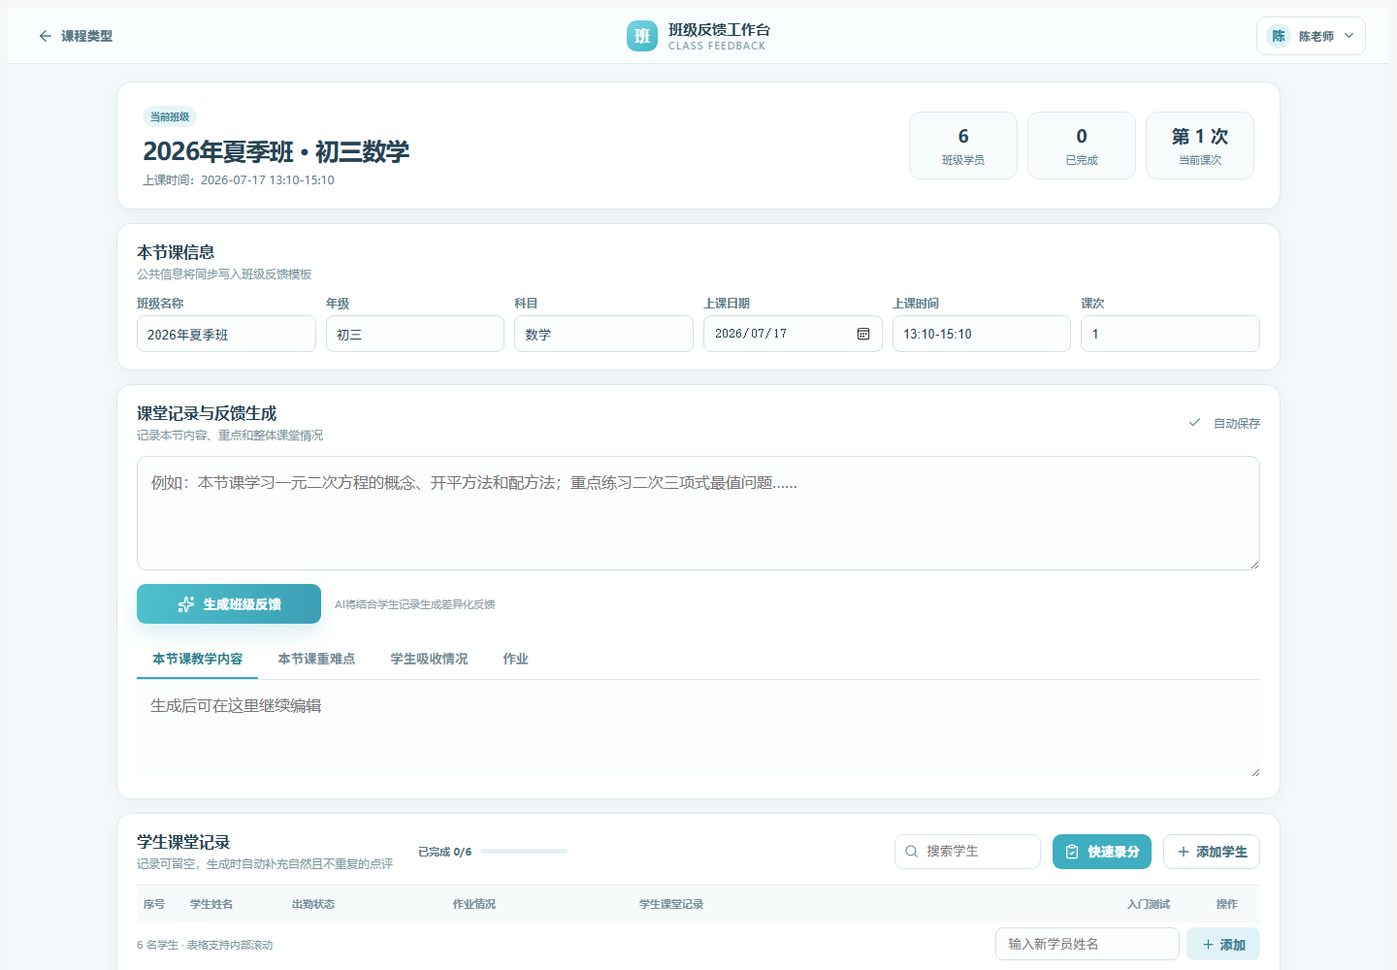
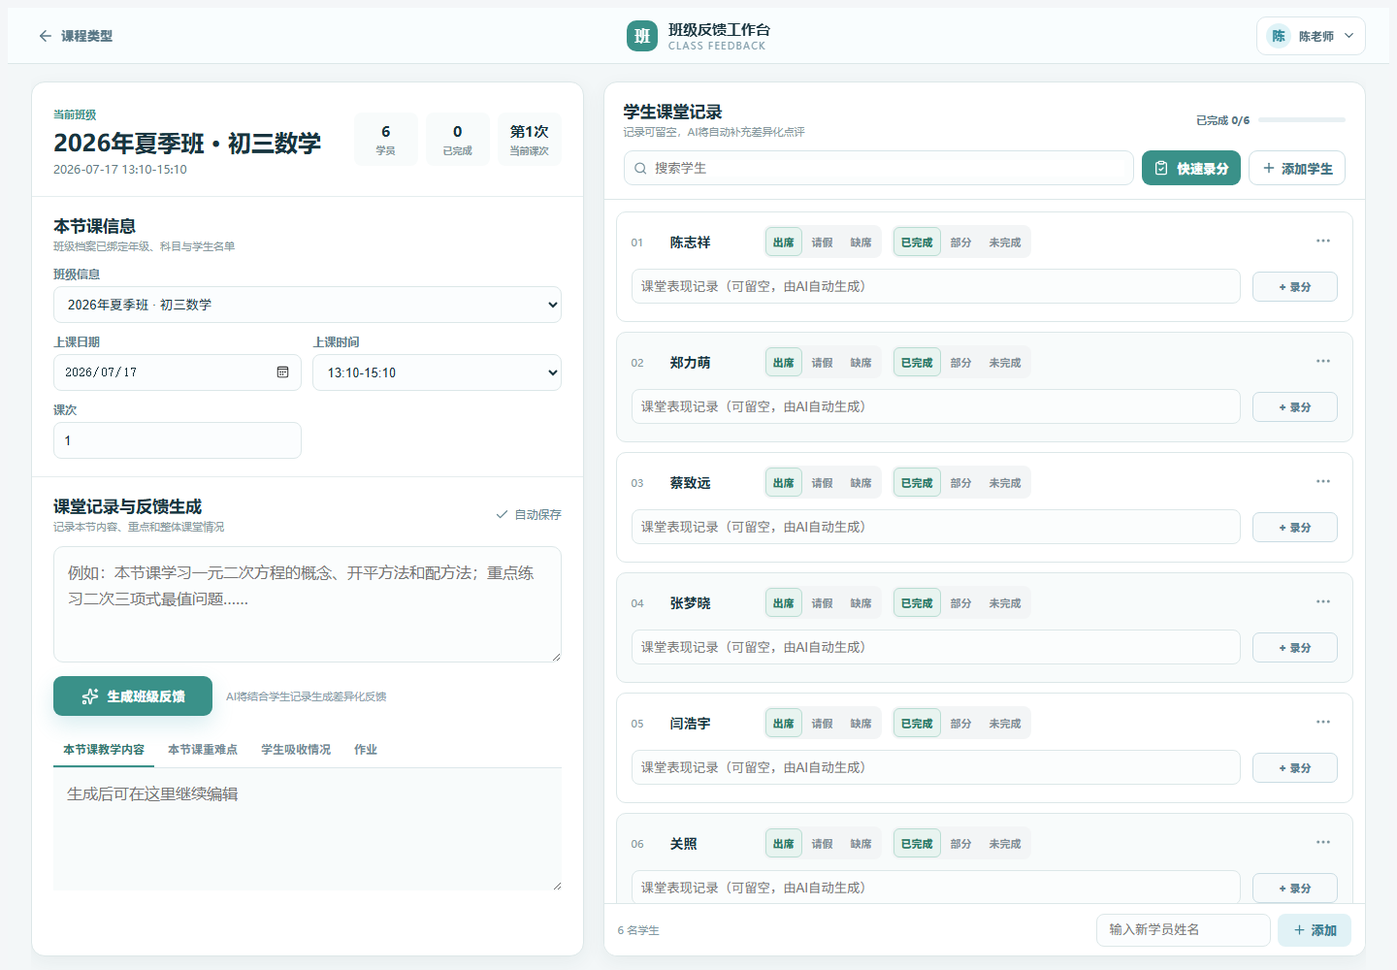
refactor: use split classroom workspace

diff --git a/src/GroupClassWorkspace.jsx b/src/GroupClassWorkspace.jsx
@@ -35,6 +35,7 @@ export default function GroupClassWorkspace({ onBack }) {
   const [activeResult, setActiveResult] = useState("teachingContent");
   const [search, setSearch] = useState("");
   const [menuStudent, setMenuStudent] = useState("");
+  const [editingStudent, setEditingStudent] = useState("");
   const [results, setResults] = useState({ teachingContent: "", difficultPoints: "", absorption: "", homework: "" });
 
   const attendedStudents = useMemo(() => students.filter((student) => student.attendance === "出席"), [students]);
@@ -144,56 +145,20 @@ export default function GroupClassWorkspace({ onBack }) {
       </header>
 
       <main className="groupMain">
-        <section className="classHero">
-          <div><span className="bluePill">当前班级</span><h1>{classInfo.title} · {classInfo.grade}{classInfo.subject}</h1><p>上课时间：{classInfo.date} <span>{classInfo.time}</span></p></div>
-          <div className="heroStats"><div><b>{students.length}</b><span>班级学员</span></div><div><b>{scoredCount}</b><span>已完成</span></div><div><b>第 {classInfo.lesson} 次</b><span>当前课次</span></div></div>
+        <section className="courseWorkspace">
+          <header className="courseOverview"><div><span>当前班级</span><h1>{classInfo.title} · {classInfo.grade}{classInfo.subject}</h1><p>{classInfo.date} <span>{classInfo.time}</span></p></div><div className="overviewStats"><b>{students.length}<small>学员</small></b><b>{scoredCount}<small>已完成</small></b><b>第{classInfo.lesson}次<small>当前课次</small></b></div></header>
+          <div className="workspaceSection"><div className="workspaceTitle"><div><h2>本节课信息</h2><p>班级档案已绑定年级、科目与学生名单</p></div></div><div className="leftInfoGrid"><label className="groupField classPicker"><span>班级信息</span><select value={classInfo.classId} onChange={(event) => selectClass(event.target.value)}>{classProfiles.map((profile) => <option key={profile.id} value={profile.id}>{profile.title} · {profile.grade}{profile.subject}</option>)}</select></label><Field label="上课日期" type="date" value={classInfo.date} onChange={(value) => updateClassInfo("date", value)} /><ClassTimeField value={classInfo.time} mode={classInfo.timeMode} onChange={(time, timeMode) => setClassInfo((previous) => ({ ...previous, time, timeMode }))} /><Field label="课次" type="number" value={classInfo.lesson} onChange={(value) => updateClassInfo("lesson", value)} /></div></div>
+          <div className="workspaceSection aiSection"><div className="workspaceTitle"><div><h2>课堂记录与反馈生成</h2><p>记录本节内容、重点和整体课堂情况</p></div><div className="saveState"><Check size={15} />自动保存</div></div><textarea className="classNotes" value={rawText} onChange={(event) => setRawText(event.target.value)} placeholder="例如：本节课学习一元二次方程的概念、开平方法和配方法；重点练习二次三项式最值问题……" /><div className="generateRow"><button className="generateGroup" type="button" onClick={generateDraft}><Sparkles size={18} />生成班级反馈</button><span>AI将结合学生记录生成差异化反馈</span></div><div className="resultTabs">{resultTabs.map(([key, label]) => <button className={activeResult === key ? "active" : ""} type="button" key={key} onClick={() => setActiveResult(key)}>{label}</button>)}</div><textarea className="tabResultEditor" value={results[activeResult]} onChange={(event) => setResults((previous) => ({ ...previous, [activeResult]: event.target.value }))} placeholder="生成后可在这里继续编辑" /></div>
         </section>
 
-        <section className="groupCard classSettings">
-          <div className="sectionHeading compactHeading"><div><div><h2>本节课信息</h2><p>公共信息将同步写入班级反馈模板</p></div></div></div>
-          <div className="classInfoGrid">
-            <label className="groupField"><span>班级</span><select value={classInfo.classId} onChange={(event) => selectClass(event.target.value)}>{classProfiles.map((profile) => <option key={profile.id} value={profile.id}>{profile.title} · {profile.grade}{profile.subject}</option>)}</select></label>
-            <Field label="年级" readOnly value={classInfo.grade} onChange={() => {}} />
-            <Field label="科目" readOnly value={classInfo.subject} onChange={() => {}} />
-            <Field label="上课日期" type="date" value={classInfo.date} onChange={(value) => updateClassInfo("date", value)} />
-            <ClassTimeField value={classInfo.time} mode={classInfo.timeMode} onChange={(time, timeMode) => setClassInfo((previous) => ({ ...previous, time, timeMode }))} />
-            <Field label="课次" type="number" value={classInfo.lesson} onChange={(value) => updateClassInfo("lesson", value)} />
-          </div>
-        </section>
-
-        <section className="groupCard">
-          <div className="sectionHeading compactHeading"><div><div><h2>课堂记录与反馈生成</h2><p>记录本节内容、重点和整体课堂情况</p></div></div><div className="saveState"><Check size={15} />自动保存</div></div>
-          <textarea className="classNotes" value={rawText} onChange={(event) => setRawText(event.target.value)} placeholder="例如：本节课学习一元二次方程的概念、开平方法和配方法；重点练习二次三项式最值问题……" />
-          <div className="generateRow"><button className="generateGroup" type="button" onClick={generateDraft}><Sparkles size={18} />生成班级反馈</button><span>AI将结合学生记录生成差异化反馈</span></div>
-          <div className="resultTabs">{resultTabs.map(([key, label]) => <button className={activeResult === key ? "active" : ""} type="button" key={key} onClick={() => setActiveResult(key)}>{label}</button>)}</div>
-          <textarea className="tabResultEditor" value={results[activeResult]} onChange={(event) => setResults((previous) => ({ ...previous, [activeResult]: event.target.value }))} placeholder="生成后可在这里继续编辑" />
-        </section>
-
-        <section className="groupCard studentManagement">
-          <div className="sectionHeading">
-            <div><div><h2>学生课堂记录</h2><p>记录可留空，生成时自动补充自然且不重复的点评</p></div><div className="completion"><b>已完成 {scoredCount}/{students.length}</b><i><span style={{ width: `${students.length ? (scoredCount / students.length) * 100 : 0}%` }} /></i></div></div>
-            <div className="studentActions"><label><Search size={15} /><input value={search} onChange={(event) => setSearch(event.target.value)} placeholder="搜索学生" /></label><button className="scoreLaunch" type="button" disabled={!students.length} onClick={() => openRecorder()}><ClipboardCheck size={16} />快速录分</button><button className="secondaryAdd" type="button" onClick={() => document.querySelector('.addStudentRow input')?.focus()}><Plus size={16} />添加学生</button></div>
-          </div>
-
-          <div className="studentTableWrap">
-            <table className="studentTable">
-              <thead><tr><th>序号</th><th>学生姓名</th><th>出勤状态</th><th>作业情况</th><th>学生课堂记录</th><th>入门测试</th><th>操作</th></tr></thead>
-              <tbody>{filteredStudents.map((student) => {
-                const index = students.findIndex((item) => item.id === student.id);
-                return (
-                <tr key={student.id}>
-                  <td className="rowNumber">{String(index + 1).padStart(2, "0")}</td>
-                  <td><div className="studentName"><input value={student.name} onChange={(event) => updateStudent(student.id, { name: event.target.value })} /></div></td>
-                  <td><MiniSegment kind="attendance" value={student.attendance} options={["出席", "请假", "缺席"]} onChange={(attendance) => updateStudent(student.id, { attendance })} /></td>
-                  <td><MiniSegment kind="homework" value={student.homeworkStatus} options={["已完成", "部分", "未完成"]} onChange={(homeworkStatus) => updateStudent(student.id, { homeworkStatus })} /></td>
-                  <td><input className="quickInput" value={student.quickNote} onChange={(event) => updateStudent(student.id, { quickNote: event.target.value })} placeholder="可留空，由AI自动生成" /></td>
-                  <td><button className={`scoreCell ${student.score !== "" ? "filled" : ""}`} type="button" onClick={() => openRecorder(index)}>{student.score === "" ? "+ 录分" : student.score === "缺考" ? "缺考" : `${student.score} / 30`}</button></td>
-                  <td className="moreCell"><button className="moreButton" type="button" onClick={() => setMenuStudent(menuStudent === student.id ? "" : student.id)}><MoreHorizontal size={18} /></button>{menuStudent === student.id && <div className="rowMenu"><button type="button" onClick={() => { removeStudent(student.id); setMenuStudent(""); }}>删除学生</button></div>}</td>
-                </tr>
-              )})}</tbody>
-            </table>
-          </div>
-          <div className="addStudentRow"><span>{students.length} 名学生 · 表格支持内部滚动</span><div><input value={newStudent} onChange={(event) => setNewStudent(event.target.value)} onKeyDown={(event) => event.key === "Enter" && addStudent()} placeholder="输入新学员姓名" /><button type="button" onClick={addStudent}><Plus size={15} />添加</button></div></div>
+        <section className="studentWorkspace">
+          <header className="studentWorkspaceHeader"><div className="studentHeading"><div><h2>学生课堂记录</h2><p>记录可留空，AI将自动补充差异化点评</p></div><div className="completion"><b>已完成 {scoredCount}/{students.length}</b><i><span style={{ width: `${students.length ? (scoredCount / students.length) * 100 : 0}%` }} /></i></div></div><div className="studentActions"><label><Search size={15} /><input value={search} onChange={(event) => setSearch(event.target.value)} placeholder="搜索学生" /></label><button className="scoreLaunch" type="button" disabled={!students.length} onClick={() => openRecorder()}><ClipboardCheck size={16} />快速录分</button><button className="secondaryAdd" type="button" onClick={() => document.querySelector('.addStudentRow input')?.focus()}><Plus size={16} />添加学生</button></div></header>
+          <div className="studentCardList">{filteredStudents.map((student) => { const index = students.findIndex((item) => item.id === student.id); return <article className={`studentRecordCard ${editingStudent === student.id ? "editing" : ""}`} key={student.id}>
+            {student.score !== "" && <span className="studentDone"><Check size={12} /></span>}
+            <div className="studentCardTop"><span className="studentIndex">{String(index + 1).padStart(2, "0")}</span><input className="studentFullName" value={student.name} onFocus={() => setEditingStudent(student.id)} onBlur={() => setEditingStudent("")} onChange={(event) => updateStudent(student.id, { name: event.target.value })} /><MiniSegment kind="attendance" value={student.attendance} options={["出席", "请假", "缺席"]} onChange={(attendance) => updateStudent(student.id, { attendance })} /><MiniSegment kind="homework" value={student.homeworkStatus} options={["已完成", "部分", "未完成"]} onChange={(homeworkStatus) => updateStudent(student.id, { homeworkStatus })} /><div className="moreCell"><button className="moreButton" type="button" onClick={() => setMenuStudent(menuStudent === student.id ? "" : student.id)}><MoreHorizontal size={18} /></button>{menuStudent === student.id && <div className="rowMenu"><button type="button" onClick={() => { removeStudent(student.id); setMenuStudent(""); }}>删除学生</button></div>}</div></div>
+            <div className="studentCardBottom"><input className="quickInput" value={student.quickNote} onFocus={() => setEditingStudent(student.id)} onBlur={() => setEditingStudent("")} onChange={(event) => updateStudent(student.id, { quickNote: event.target.value })} placeholder="课堂表现记录（可留空，由AI自动生成）" /><button className={`scoreCell ${student.score !== "" ? "filled" : ""}`} type="button" onClick={() => openRecorder(index)}>{student.score === "" ? "+ 录分" : student.score === "缺考" ? "缺考" : `${student.score} / 30`}</button></div>
+          </article> })}</div>
+          <footer className="addStudentRow"><span>{students.length} 名学生</span><div><input value={newStudent} onChange={(event) => setNewStudent(event.target.value)} onKeyDown={(event) => event.key === "Enter" && addStudent()} placeholder="输入新学员姓名" /><button type="button" onClick={addStudent}><Plus size={15} />添加</button></div></footer>
         </section>
       </main>
 
@@ -237,5 +202,8 @@ const groupCss = `
   /* Dense desktop workspace v2 */
   .groupShell{background:#f4f8fa}.groupTopbar{height:58px;grid-template-columns:1fr auto 1fr;padding:0 24px}.groupBrand{justify-self:center}.groupBrand>span{width:32px;height:32px;border-radius:10px}.teacherSwitch{justify-self:end;display:flex;align-items:center;gap:8px;border:1px solid #dbe7eb;border-radius:10px;background:#fff;color:#486674;padding:6px 9px;cursor:pointer}.teacherSwitch>span{width:26px;height:26px;display:grid;place-items:center;border-radius:50%;background:#dff3f7;color:#2f8799;font-weight:900}.teacherSwitch b{font-size:12px}.groupMain{width:min(1200px,calc(100% - 32px));padding:18px 0 42px}.classHero{min-height:118px;padding:22px 26px;margin-bottom:14px;border:1px solid #dce9ed;border-radius:15px;background:#fff;box-shadow:0 6px 20px rgba(41,76,92,.05)}.bluePill{padding:4px 8px;background:#e6f5f8;font-size:10px}.classHero h1{margin:8px 0 5px;font-size:25px}.classHero p{font-size:12px}.heroStats div{min-width:112px;padding:12px 16px;border-color:#deeaee;border-radius:12px;background:#f8fbfc}.heroStats b{font-size:18px}.groupCard{margin-bottom:14px;padding:18px 20px;border-radius:15px;box-shadow:0 4px 16px rgba(42,77,93,.045)}.sectionHeading{margin-bottom:14px}.compactHeading h2,.sectionHeading h2{font-size:16px}.classInfoGrid{gap:10px}.groupField{gap:5px}.groupField input{height:38px;border-radius:8px;padding:8px 10px}.classNotes{min-height:118px;border-radius:10px;padding:12px 14px}.generateRow{display:flex;align-items:center;gap:14px;margin-top:10px}.generateRow .generateGroup{width:auto;min-width:190px;margin:0;padding:11px 18px;border-radius:9px}.generateRow>span{color:#8aa0aa;font-size:11px}.resultTabs{display:flex;gap:4px;margin-top:16px;border-bottom:1px solid #dce7eb}.resultTabs button{border:0;border-bottom:2px solid transparent;background:transparent;color:#718b96;padding:10px 16px;font-weight:700;cursor:pointer}.resultTabs button.active{border-bottom-color:#35a9ba;color:#267f90}.tabResultEditor{width:100%;min-height:100px;border:0;background:#fbfdfe;color:var(--ink);padding:13px 14px;resize:vertical;font:inherit;line-height:1.6;outline:none}.studentManagement{padding-bottom:0}.studentActions{display:flex;align-items:center;gap:8px}.studentActions label{height:36px;display:flex;align-items:center;gap:6px;border:1px solid #d6e4e8;border-radius:9px;padding:0 9px;color:#76909b}.studentActions label input{width:110px;border:0;outline:none;color:var(--ink)}.studentActions .scoreLaunch,.secondaryAdd{height:36px;border-radius:9px;padding:0 12px}.secondaryAdd{display:flex;align-items:center;gap:5px;border:1px solid #cddfe4;background:#fff;color:#467686;font-weight:800;cursor:pointer}.completion{display:flex!important;align-items:center!important;gap:9px!important;margin-left:14px}.completion b{color:#587886;font-size:11px}.completion i{width:90px;height:5px;border-radius:99px;background:#e8f0f3;overflow:hidden}.completion i span{display:block;height:100%;background:#42b6c5}.studentTableWrap{height:388px;overflow:auto;border-top:1px solid #e3ecef;border-bottom:1px solid #e3ecef;scrollbar-width:thin;scrollbar-color:#bfd2d9 transparent}.studentTableWrap::-webkit-scrollbar{width:6px;height:6px}.studentTableWrap::-webkit-scrollbar-thumb{border-radius:99px;background:#bfd2d9}.studentTable thead{position:sticky;top:0;z-index:3;background:#f7fafb}.studentTable th{height:38px;padding:8px 7px}.studentTable tbody tr{height:55px;transition:background .15s}.studentTable tbody tr:hover{background:#f2fafc}.studentTable td{padding:7px}.rowNumber{width:48px;color:#91a5ad;font-size:11px}.studentName>span{width:28px;height:28px;border-radius:50%}.studentName input{width:76px}.miniSegment{padding:2px;border:1px solid #e0eaed;border-radius:8px;background:#fff}.miniSegment button{border-radius:6px;padding:6px 7px}.miniSegment button.active{background:#e4f4f7;box-shadow:none}.quickInput{height:34px;border-radius:8px;padding:7px 9px}.scoreCell{border-style:solid;border-radius:8px;background:#fff;padding:7px 9px}.scoreCell.filled{background:#e6f6f8}.moreCell{position:relative}.moreButton{border:0;background:transparent;color:#7e969f;cursor:pointer}.rowMenu{position:absolute;right:24px;top:40px;z-index:8;padding:5px;border:1px solid #dce7ea;border-radius:8px;background:#fff;box-shadow:0 8px 22px rgba(30,60,75,.14)}.rowMenu button{border:0;background:transparent;color:#b04c58;padding:7px 12px;white-space:nowrap;cursor:pointer}.addStudentRow{position:sticky;bottom:0;min-height:54px;display:flex;align-items:center;justify-content:space-between;margin:0;background:#fff}.addStudentRow>span{color:#849aa4;font-size:11px}.addStudentRow>div{display:flex;gap:7px}.addStudentRow input{height:34px;max-width:190px;border-radius:8px}.addStudentRow button{height:34px;display:flex;align-items:center;gap:4px;border-radius:8px}.scoreRecorder{width:min(580px,100%);border-radius:16px}.recorderHeader{padding:22px 26px 17px;background:#f3fafc}.recorderHeader h2{font-size:25px}.recorderModes{margin-top:15px}.scoreButtons{gap:8px}.scoreButtons button{border-radius:10px}.scoreButtons button.selected{border-color:#2c9fb1;background:#35aabc;color:#fff}.absentRow{display:flex;align-items:center;justify-content:center;gap:14px;margin:4px 28px 14px}.absentRow>button{border:1px solid #c8d9de;border-radius:8px;background:#fff;color:#6d8792;padding:7px 18px;font-weight:800;cursor:pointer}.autoHint{margin:0}.recorderFooter{padding:13px 20px}
   .groupField select{width:100%;height:38px;border:1px solid var(--line);border-radius:8px;background:#fbfdfe;color:var(--ink);padding:8px 10px;outline:none}.groupField input[readonly]{background:#f5f8f9;color:#667f8a;cursor:default}.classTimeField{position:relative}.classTimeField input{position:absolute;top:63px;z-index:6;background:#fff;box-shadow:0 8px 20px rgba(35,67,82,.14)}.studentTable th:nth-child(1){width:48px}.studentTable th:nth-child(2){width:105px}.studentTable th:nth-child(3){width:166px}.studentTable th:nth-child(4){width:192px}.studentTable th:nth-child(6){width:82px}.studentTable th:nth-child(7){width:52px}.studentName{display:block}.studentName input{width:82px}.miniSegment{display:inline-flex;width:max-content;padding:2px;gap:2px;border:0;background:#f3f5f6}.miniSegment button{font-weight:700}.miniSegment button:not(.active){color:#7c8d95;background:transparent}.miniSegment.attendance .state-0.active{color:#246c8e;background:#DCEFF8}.miniSegment.homework .state-0.active{color:#247080;background:#DDF2F4}.miniSegment .state-1.active{color:#8b5c10;background:#FFF3D6}.miniSegment .state-2.active{color:#963b45;background:#FDEBEC}.scoreCell{min-width:64px;height:31px;border-color:#c9dce3!important;border-radius:7px!important;background:#f7fafb!important;color:#568090!important;padding:4px 8px!important;font-size:11px;white-space:nowrap}.scoreCell:hover{border-color:#7fb9ca!important;background:#edf7fa!important;color:#2c8298!important}.scoreCell.filled{border-color:#9ccbd6!important;background:#e9f6f8!important;color:#277d90!important}.addStudentRow button{white-space:nowrap;flex-shrink:0}.typeScore{min-height:190px}.typeScore p{margin-top:18px}.typeScore em{color:#b3434c;font-size:12px;font-style:normal}.scoreComplete{display:grid;justify-items:center;padding:46px 30px}.scoreComplete>span{width:58px;height:58px;display:grid;place-items:center;border-radius:50%;background:#e2f6f0;color:#27805f}.scoreComplete h2{margin:17px 0 5px}.scoreComplete p{margin:0;color:#7a929d}.scoreComplete button{margin-top:24px;border:0;border-radius:9px;background:#35aabc;color:#fff;padding:11px 18px;font-weight:800;cursor:pointer}.savedToast{position:absolute;left:50%;bottom:24px;display:flex;align-items:center;gap:7px;transform:translateX(-50%);border-radius:9px;background:#244f5e;color:#fff;padding:9px 13px;font-size:12px;box-shadow:0 8px 24px rgba(20,50,65,.22);pointer-events:none}.scoreButtons button{transition:none}
-  @media(max-width:900px){.studentActions{width:100%;flex-wrap:wrap}.studentTableWrap{height:380px}.groupMain{width:min(100% - 20px,1200px)}}
+  /* Two-column classroom workspace */
+  .groupShell{--ink:#18343E;--muted:#647C86;--line:#DCE7E8;background:#F3F7F8}.groupTopbar{border-color:#DCE7E8}.groupBrand>span,.scoreLaunch,.generateGroup{background:#3A9189!important}.groupMain{width:min(1680px,calc(100% - 48px));height:calc(100vh - 58px);display:grid;grid-template-columns:minmax(0,42fr) minmax(0,58fr);gap:20px;padding:18px 0 22px;overflow:hidden}.courseWorkspace,.studentWorkspace{height:100%;min-height:0;border:1px solid #DCE7E8;border-radius:14px;background:#fff;box-shadow:0 6px 20px rgba(36,67,75,.06)}.courseWorkspace{overflow-y:auto;scrollbar-width:thin;scrollbar-color:#C5D5D8 transparent}.courseOverview{display:flex;align-items:center;justify-content:space-between;gap:16px;padding:20px 22px;border-bottom:1px solid #E5EDEE}.courseOverview>div>span{color:#3A9189;font-size:11px;font-weight:800}.courseOverview h1{margin:5px 0 4px;color:#18343E;font-size:24px}.courseOverview p{margin:0;color:#647C86;font-size:12px}.overviewStats{display:flex;gap:8px}.overviewStats b{min-width:66px;padding:9px 8px;border-radius:8px;background:#F8FBFB;color:#18343E;text-align:center;font-size:15px}.overviewStats small{display:block;margin-top:3px;color:#8799A0;font-size:10px;font-weight:600}.workspaceSection{padding:18px 22px;border-bottom:1px solid #E5EDEE}.workspaceSection:last-child{border-bottom:0}.workspaceTitle{display:flex;align-items:center;justify-content:space-between;margin-bottom:13px}.workspaceTitle h2,.studentHeading h2{margin:0;font-size:17px}.workspaceTitle p,.studentHeading p{margin:3px 0 0;color:#8799A0;font-size:11px}.leftInfoGrid{display:grid;grid-template-columns:repeat(2,minmax(0,1fr));gap:11px}.classPicker{grid-column:1/-1}.classNotes{min-height:120px;background:#FBFDFD}.generateRow .generateGroup{min-width:164px}.resultTabs{overflow-x:auto}.resultTabs button{flex:0 0 auto;padding:9px 10px;font-size:12px}.resultTabs button.active{border-color:#3A9189;color:#2E766F}.tabResultEditor{min-height:126px;background:#F8FBFB}.studentWorkspace{display:flex;flex-direction:column;overflow:hidden}.studentWorkspaceHeader{flex:0 0 auto;padding:18px 20px 14px;border-bottom:1px solid #DCE7E8}.studentHeading{display:flex;align-items:center;justify-content:space-between;gap:12px}.studentActions{margin-top:12px}.studentActions label{flex:1;background:#FBFDFD}.studentActions label input{width:100%}.studentActions .scoreLaunch,.secondaryAdd{white-space:nowrap}.completion{margin-left:auto!important}.completion i span{background:#3A9189}.studentCardList{flex:1;min-height:0;overflow-y:auto;padding:12px;scrollbar-width:thin;scrollbar-color:#C5D5D8 transparent}.studentCardList::-webkit-scrollbar,.courseWorkspace::-webkit-scrollbar{width:6px}.studentCardList::-webkit-scrollbar-thumb,.courseWorkspace::-webkit-scrollbar-thumb{border-radius:99px;background:#C5D5D8}.studentRecordCard{position:relative;min-height:114px;margin-bottom:10px;padding:13px 15px;border:1px solid #DCE7E8;border-radius:10px;background:#fff;transition:150ms ease}.studentRecordCard:nth-child(even){background:#F8FBFB}.studentRecordCard:hover{background:#F1F8F7}.studentRecordCard.editing{border-color:#9BCBC5;background:#EDF7F5;box-shadow:inset 3px 0 #3A9189}.studentCardTop{display:flex;align-items:center;gap:10px;min-height:30px}.studentIndex{width:28px;color:#8799A0;font-size:11px}.studentFullName{width:88px;border:0;background:transparent;color:#18343E;font-size:14px;font-weight:700;outline:none}.studentCardTop .moreCell{margin-left:auto}.studentCardBottom{display:grid;grid-template-columns:minmax(0,1fr) 88px;align-items:center;gap:12px;margin-top:11px}.studentCardBottom .quickInput{height:36px;background:#FBFDFD}.studentCardBottom .scoreCell{width:88px}.studentDone{position:absolute;right:10px;top:7px;color:#3A9189}.studentWorkspace>.addStudentRow{flex:0 0 54px;padding:0 14px;border-top:1px solid #DCE7E8}.studentWorkspace>.addStudentRow input{width:180px}.miniSegment.attendance .state-0.active,.miniSegment.homework .state-0.active{border:1px solid #B9DDD3;color:#287A68;background:#E8F4F0}.miniSegment .state-1.active{border:1px solid #DFCFB4;color:#8B6B3F;background:#F6F0E6}.miniSegment .state-2.active{border:1px solid #E7C2C7;color:#A85861;background:#F8EBED}.miniSegment button:not(.active){border:1px solid transparent;color:#7C8D95;background:transparent}.groupField input:focus,.groupField select:focus,.quickInput:focus,.classNotes:focus,.tabResultEditor:focus{border-color:#86BEB8;box-shadow:0 0 0 2px rgba(134,190,184,.16)}
+  @media(max-width:1100px){.groupMain{height:auto;grid-template-columns:1fr;overflow:visible}.courseWorkspace{max-height:none}.studentWorkspace{height:720px}.studentCardTop{flex-wrap:wrap}}
+  @media(max-width:900px){.studentActions{width:100%;flex-wrap:wrap}.groupMain{width:min(100% - 20px,1200px)}.overviewStats{display:none}}
 `;
